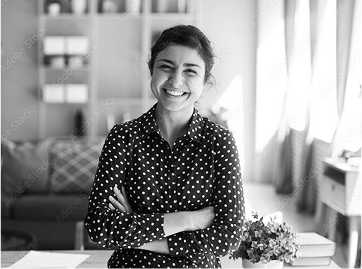
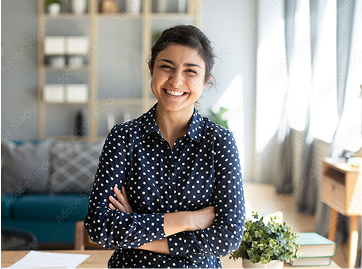
fixed image filter and add link

diff --git a/src/pages/Main.jsx b/src/pages/Main.jsx
@@ -1,5 +1,6 @@
 import React from "react";
 import Card from "../components/Card";
+import { Link } from "react-router-dom";
 
 const cards = [
   {
@@ -8,7 +9,7 @@ const cards = [
     description: "Lorem ipsum dolor sit amet, consectetur adipiscing elit.",
   },
   {
-    image: "/img/2.png",
+    image: "/img/2.jpeg",
     date: "03.12.22",
     description: "Lorem ipsum dolor sit amet, consectetur adipiscing elit.",
   },
@@ -24,7 +25,7 @@ const Main = () => {
     <div className="bg-gradient-to-r from-[#6B2C83] to-[#150E43] md:px-[120px] px-10 py-[76px]">
       <div className="w-full flex justify-between py-7 items-end">
         <p className="text-[36px] text-white flex gap-2"><span className="sm:block hidden">Featured </span> Articles</p>
-        <p className="text-[18px] text-white md:block hidden font-thin">VIEW ALL</p>
+        <Link to={"./"} className="text-[18px] text-white md:block hidden font-thin">VIEW ALL</Link>
       </div>
       <hr className="bg-white" />
       <div className="w-full grid grid-cols-1 gap-[59px] pt-[50px] lg:grid-cols-3 pb-[40px]">

diff --git a/src/components/Card.jsx b/src/components/Card.jsx
@@ -1,15 +1,18 @@
 import React from "react";
+import { Link } from "react-router-dom";
+
 
 const Card = ({ image, date, description }) => {
   return (
     <div className="w-full rounded-lg overflow-hidden hover:shadow-[5px_5px_3px_grey]  duration-300">
       <div>
-        <img src={image} alt="img" className="w-full" />
+        <img src={image} alt="img" className="w-full grayscale-[100%] hover:grayscale-0 duration-300 aspect-[360/268] object-cover"/>
       </div>
       <div className="bg-black px-4 pt-[25px] pb-[30px]">
         <p className="text-white text-[12px] mb-1">{date}</p>
         <p className="text-white text-[20px] mb-2">{description}</p>
-        <p className="text-[#00E1FF] text-[14px] font-thin">READ MORE</p>
+        {/* <a className="text-[#00E1FF] text-[14px] font-thin" >READ MORE</a> */}
+        <Link to={"./"} className="text-[#00E1FF] text-[14px] font-thin" >READ MORE</Link>
       </div>
     </div>
   );

diff --git a/src/App.js b/src/App.js
@@ -1,12 +1,14 @@
-import logo from './logo.svg';
-import './App.css';
-import Main from './pages/Main';
-
+import logo from "./logo.svg";
+import "./App.css";
+import Main from "./pages/Main";
+import { BrowserRouter as Router, Route, Switch } from "react-router-dom";
 function App() {
   return (
-    <div className="App max-w-[1440px] mx-auto">
-      <Main />
-    </div>
+    <Router>
+      <div className="App max-w-[1440px] mx-auto">
+        <Main />
+      </div>
+    </Router>
   );
 }
 
